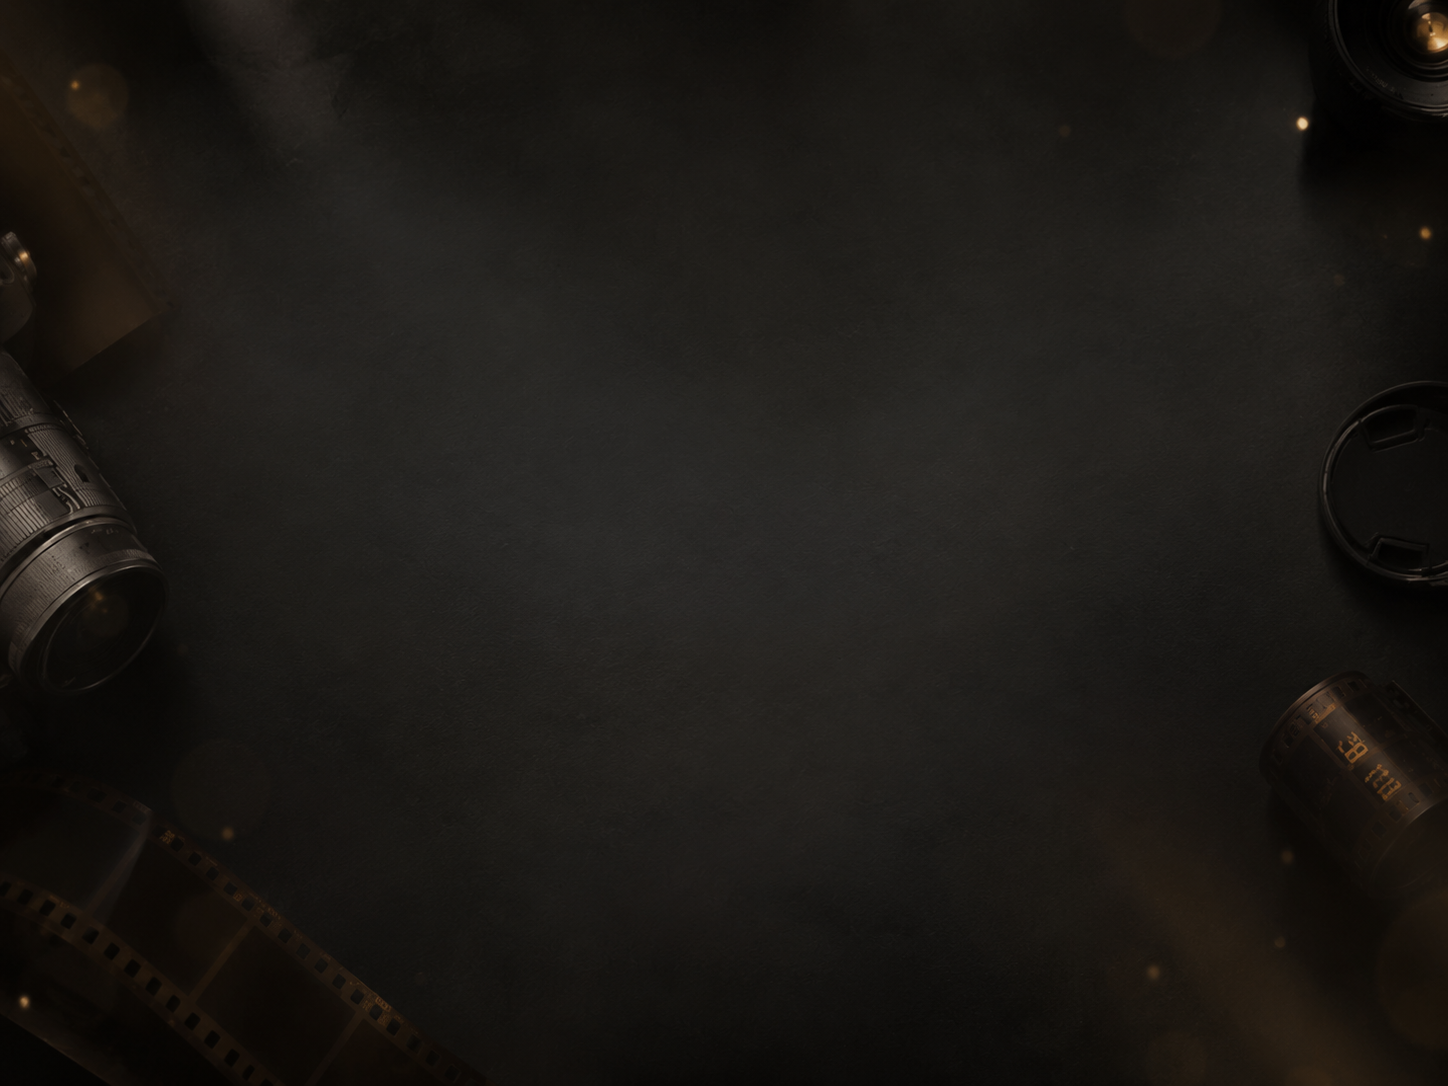
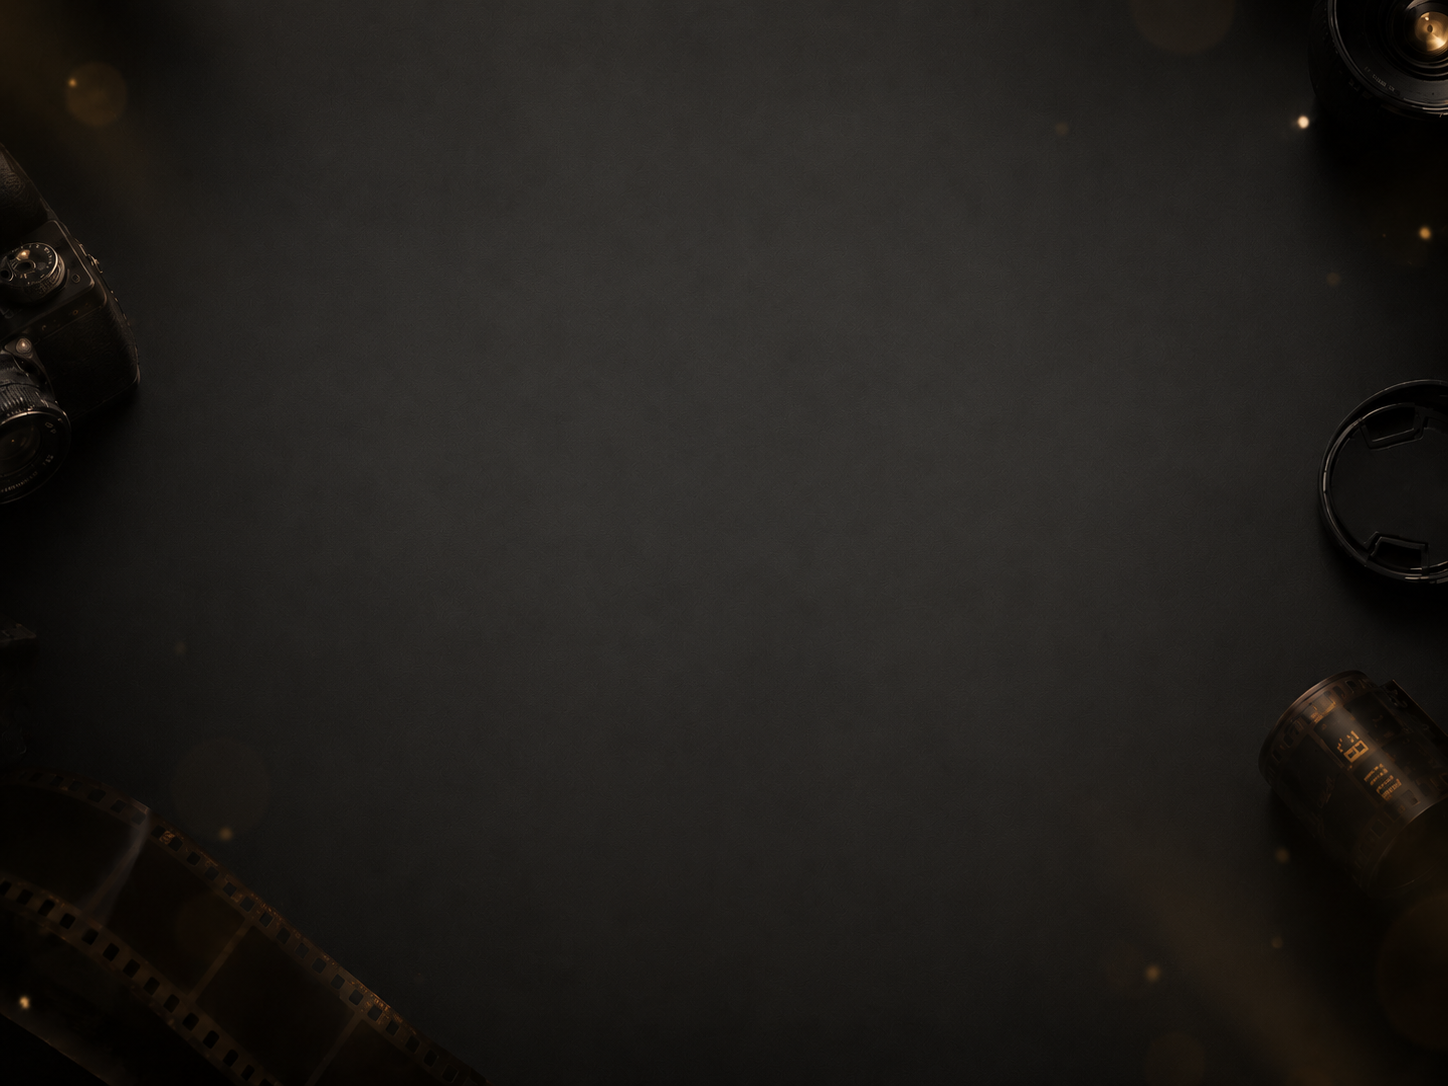
alterancao banco

diff --git a/Codigo/frontend/src/components/dashboard/EnsaioDashboardCard.jsx b/Codigo/frontend/src/components/dashboard/EnsaioDashboardCard.jsx
@@ -55,11 +55,7 @@ export default function EnsaioDashboardCard({ ensaio }) {
             src={ensaio.capaUrl}
             alt={ensaio.clienteNome}
             onError={() => setImageError(true)}
-            className={`h-full w-full transition duration-500 hover:scale-[1.02] ${
-              isCapaPadrao
-                ? 'object-contain bg-[#0b0b0b] p-4'
-                : 'object-cover hover:scale-105'
-            }`}
+           className="h-full w-full object-cover object-center transition duration-500 hover:scale-105"
           />
         ) : (
           <div className="flex h-full w-full flex-col items-center justify-center bg-[#111111] px-4 text-center">

diff --git a/Codigo/frontend/src/components/album/acessoAlbum/AcessoAlbumForm.jsx b/Codigo/frontend/src/components/album/acessoAlbum/AcessoAlbumForm.jsx
@@ -16,7 +16,7 @@ export default function AcessoAlbumForm({
       <input
         className={`gate-input ${erro ? "err" : ""}`}
         type="password"
-        placeholder="Senha fornecida pela fotógrafa"
+        placeholder="Digite a senha de acesso."
         value={senha}
         onChange={(e) => setSenha(e.target.value)}
         onKeyDown={(e) => {
@@ -27,8 +27,7 @@ export default function AcessoAlbumForm({
       <AcessoAlbumError mensagem={erro} />
 
       <div className="gate-hint">
-        Senha fornecida pela fotógrafa.
-        <br />
+Senha de acesso ao álbum.        <br />
         <b>Acesso por token — sem cadastro</b>
       </div>
 

diff --git a/Codigo/frontend/src/components/ensaios/listaEnsaios/EnsaiosTable.jsx b/Codigo/frontend/src/components/ensaios/listaEnsaios/EnsaiosTable.jsx
@@ -112,9 +112,7 @@ function EnsaioListCard({
           <img
             src={ensaio.capaUrl}
             alt={ensaio.clienteNome || 'Capa do ensaio'}
-            className={`h-full w-full transition duration-500 group-hover:scale-[1.03] ${
-              isCapaPadrao ? 'object-contain p-5 opacity-85' : 'object-cover'
-            }`}
+           className="h-full w-full object-cover object-center transition duration-500 group-hover:scale-[1.03]"
           />
         ) : (
           <div className="theme-panel flex h-full items-center justify-center">

diff --git a/Codigo/frontend/src/pages/AlbumAccessPage.jsx b/Codigo/frontend/src/pages/AlbumAccessPage.jsx
@@ -13,7 +13,7 @@ import AcessoAlbumLoading from "../components/album/acessoAlbum/AcessoAlbumLoadi
 import "../styles/album-access.css"
 
 const MSG_ALBUM_PAUSADO =
-  "Álbum em atualização. A fotógrafa está fazendo ajustes nesta galeria. Assim que a nova versão for publicada, você receberá uma nova senha de acesso."
+  "Álbum em atualização. Ajustes estão sendo feitos nesta galeria. Assim que a nova versão for publicada, você receberá uma nova senha de acesso."
 
 export default function AlbumAccessPage() {
   const { token } = useParams()
